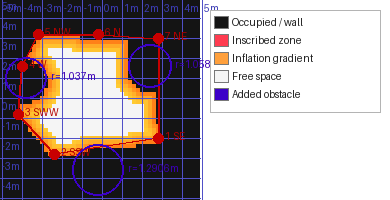
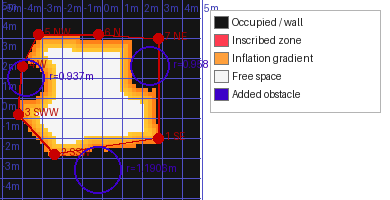
Lawnmower: relax arrival heading after 20 s without progress; craters 10 cm smaller
autonomous_trials --lawnmower-relax-after (launch lawnmower_relax_after, default 20 s, <= 0 off):
in a zigzag_heading trial, once the rover has made progress, 20 s without 5 cm more progress
toward the goal drop goal_heading_tolerance_deg / goal_approach_length for the rest of the trial
(restored after it); per trial in heading_relax.csv. 11/23 lawnmower_nn + V6-V8 (109 trials):
all 7 stalls were shuttles / loops at the goal at the wrong angle (bag_23: 5x to 0.7 m at
23-33 deg, then reverse-and-retry plans); this trigger fires on all 7 and on 10 reached trials
(mostly long detours).

update_costmap.py: CRATER_SHRINK 0.10, every crater circle 10 cm smaller (CraterNE 0.958,
CraterW 0.937, CraterS 1.19); the NE closure follows CraterNE's new west point (x >= 1.522).
27 cells freed; lanes unchanged, ends next to CraterNE / CraterW 0.2 m longer.

Bench (heading_relax.yaml): 20 s 6/6 reached, none relaxed; forced 4 s 6/6, relaxed and
restored in 2 trials.

diff --git a/src/nav2_stack/nav2_stack/autonomous_trials.py b/src/nav2_stack/nav2_stack/autonomous_trials.py
@@ -197,7 +197,7 @@ def wait_for_nav2_active():
 
 
 def wait_for_goal(node: PoseWatcher, goal_xy, label: str, route=None, trial_id=None,
-                  stop_on_distance=True) -> str:
+                  stop_on_distance=True, relax=None) -> str:
     """Spins until path_follower reports its authoritative trajectory
     outcome, the real pose is within XY_GOAL_TOLERANCE of goal_xy (a
     secondary/fallback "reached" signal -- see below), no progress has been
@@ -232,8 +232,14 @@ def wait_for_goal(node: PoseWatcher, goal_xy, label: str, route=None, trial_id=N
     uses), so keeping it can't reintroduce that bug, only catch a reached
     goal if /trial_goal_result were ever dropped. stop_on_distance=False turns
     it off (path_follower follow_mode "pose": the rover may pass the goal
-    mid-manoeuvre, before it faces the right way)."""
+    mid-manoeuvre, before it faces the right way).
+
+    relax = (after_s, fn): once the rover has made progress, the first time it then goes
+    after_s without MIN_IMPROVEMENT_M of further progress, fn(dist) is called once
+    (lawnmower zigzag_heading: drop the arrival-heading rule; the stall window keeps
+    running from the same last improvement)."""
     node.reset_trial_state(trial_id)
+    relaxed = False
     best_dist = math.inf
     first_dist = None
     last_improve_t = time.monotonic()
@@ -274,6 +280,12 @@ def wait_for_goal(node: PoseWatcher, goal_xy, label: str, route=None, trial_id=N
             if dist < best_dist - MIN_IMPROVEMENT_M:
                 best_dist = dist
                 last_improve_t = time.monotonic()
+            if (relax is not None and not relaxed and _made_progress()
+                    and time.monotonic() - last_improve_t > relax[0]):
+                relaxed = True
+                log(f"{label}: no progress for {relax[0]:g}s (dist={dist:.3f}m, best "
+                    f"{best_dist:.3f}m) -- relaxing")
+                relax[1](dist)
         if time.monotonic() - last_improve_t > STALL_WINDOW_S:
             made_progress = _made_progress()
             log(f"{label}: STALLED (best_dist={best_dist:.3f}m, no improvement for "
@@ -324,10 +336,10 @@ def next_trial_start_index(bag_dir: Path) -> int:
 
 
 def run_one_trial(bag_dir: Path, bag_name: str, pose_csv: Path, goal_xy, pose_node, label: str,
-                  follow_args=(), route=None, stop_on_distance=True) -> str:
+                  follow_args=(), route=None, stop_on_distance=True, relax=None) -> str:
     """Returns 'reached', 'stalled', 'no_movement', or 'safety_stop' (see wait_for_goal).
     follow_args: extra waypoint.launch.py arguments (follow_mode, advance_distance);
-    route: see wait_for_goal."""
+    route, relax: see wait_for_goal."""
     bag_path = bag_dir / bag_name
     trial_id = f"{label}@{int(time.time())}"  # unique per attempt (see PoseWatcher._goal_result_cb)
     bag_proc = start_process(["ros2", "bag", "record", *BAG_TOPICS,
@@ -341,7 +353,8 @@ def run_one_trial(bag_dir: Path, bag_name: str, pose_csv: Path, goal_xy, pose_no
     ])
 
     try:
-        outcome = wait_for_goal(pose_node, goal_xy, label, route, trial_id, stop_on_distance)
+        outcome = wait_for_goal(pose_node, goal_xy, label, route, trial_id, stop_on_distance,
+                                relax)
     finally:
         stop_process(wp_proc, "waypoint.launch.py")
         stop_process(bag_proc, "ros2 bag record")
@@ -923,6 +936,13 @@ def main():
     parser.add_argument("--lawnmower-heading-tolerance", default=20.0, type=float,
                         help="lawnmower-drive zigzag_heading: allowed arrival heading off E-W "
                              "(deg). Default: 20")
+    parser.add_argument("--lawnmower-relax-after", default=20.0, type=float,
+                        help="lawnmower-drive zigzag_heading: once the rover has made progress, "
+                             "this many s without 5 cm more progress toward the goal drop the "
+                             "arrival-heading rule (goal_heading_tolerance_deg, goal_approach_length) "
+                             "for the rest of the trial (11/23: stalls were shuttles at the goal "
+                             "at the wrong angle); per trial in heading_relax.csv. <= 0 = off. "
+                             "Default: 20")
     parser.add_argument("--lawnmower-cusp-tolerance", default=30.0, type=float,
                         help="lawnmower-drive zigzag / zigzag_heading: the planner only plans a "
                              "gear change (three-point turn) while the rover points within this "
@@ -1270,6 +1290,16 @@ def main():
             log(f"WARNING: could not set {planner}.{pname} ({e}) -- the planner needs the "
                 f"GridBasedCustom build with it; the zigzag runs without it")
 
+    # --lawnmower-relax-after: the arrival-heading params to drop in a stuck zigzag_heading trial
+    # (their run values, put back after that trial)
+    relax_params = {}
+    if (pattern is not None and pattern["drive"] == "zigzag_heading" and heading_tol_set is not None
+            and args.lawnmower_relax_after > 0):
+        relax_params = {p: planner_tols[p][0] for p in ("goal_heading_tolerance_deg", "goal_approach_length")
+                        if p in planner_tols}
+        log(f"arrival heading relaxed (any heading) after {args.lawnmower_relax_after:g}s without "
+            f"progress in a trial (heading_relax.csv)")
+
     live_mode = parsed["dynamics_mode"]   # dynamics_mode the controller runs right now
     if fs_cfg is not None and fs_cfg["current_weights_path"] is not None:
         log(f"train_from_scratch: deploying checkpoint {fs_cfg['current_weights_path']} "
@@ -1383,9 +1413,35 @@ def main():
                             if pattern["name"] == "spiral" else f"lawnmower {leg.label}")
                     log(f"{traj_name}: {what}, {leg.length:.1f} m, from ({leg.points[0][0]:.2f}, "
                         f"{leg.points[0][1]:.2f}) to ({goal_xy[0]:.2f}, {goal_xy[1]:.2f})")
-                    outcome = run_one_trial(bag_dir, bag_name, trial_csv, goal_xy, pose_node,
-                                            traj_name, pattern_follow_args(pattern["drive"], leg, args.lawnmower_cusp_tolerance >= 0),
-                                            None if pattern["drive"] in ZIGZAG_DRIVES else leg.points)
+                    relax, relax_state = None, {"t0": time.monotonic()}
+                    if relax_params:
+                        def _relax(dist, st=relax_state):
+                            st.update(t=time.monotonic() - st["t0"], dist=dist)
+                            for p in relax_params:
+                                try:
+                                    set_controller_param(pose_node, f"{heading_tol_set}.{p}",
+                                                         -1.0 if p == "goal_heading_tolerance_deg" else 0.0,
+                                                         server="planner_server")
+                                except Exception as e:
+                                    log(f"WARNING: could not relax {heading_tol_set}.{p} ({e})")
+                            log(f"{traj_name}: arrival heading relaxed (any heading) for the rest of "
+                                f"this trial")
+                        relax = (args.lawnmower_relax_after, _relax)
+                    try:
+                        outcome = run_one_trial(bag_dir, bag_name, trial_csv, goal_xy, pose_node,
+                                                traj_name, pattern_follow_args(pattern["drive"], leg, args.lawnmower_cusp_tolerance >= 0),
+                                                None if pattern["drive"] in ZIGZAG_DRIVES else leg.points,
+                                                relax=relax)
+                    finally:
+                        if "dist" in relax_state:
+                            for p, v in relax_params.items():
+                                try:
+                                    set_controller_param(pose_node, f"{heading_tol_set}.{p}", float(v),
+                                                         server="planner_server")
+                                except Exception as e:
+                                    log(f"WARNING: could not restore {heading_tol_set}.{p} ({e}) -- "
+                                        f"the next trials may run without the heading rule")
+                            log(f"{traj_name}: arrival heading rule restored")
                 else:
                     if not run_gp_explorer(gp_explorer_path, bag_dir, traj_name):
                         sys.exit(f"FATAL: gp_explorer_gpu.py failed {GP_EXPLORER_MAX_ATTEMPTS} "
@@ -1406,6 +1462,16 @@ def main():
                 outcome = "stalled"
 
             record_outcome(bag_dir, bag_name, outcome, goal_xy)
+            if relax_params:
+                path = bag_dir / "heading_relax.csv"
+                new = not path.exists()
+                with open(path, "a") as f:
+                    if new:
+                        f.write("bag,relaxed,t_relax_s,dist_at_relax_m,relax_after_s,outcome\n")
+                    rel = "dist" in relax_state
+                    f.write(f"{bag_name},{int(rel)},{relax_state['t'] if rel else float('nan'):.1f},"
+                            f"{relax_state['dist'] if rel else float('nan'):.3f},"
+                            f"{args.lawnmower_relax_after:g},{outcome}\n")
             run_gp_uncertainty(gp_uncertainty_path, bag_dir, bag_name)
             if fs_cfg is not None:
                 record_deployed_model(bag_dir, bag_name, fs_cfg)

diff --git a/scripts/update_costmap.py b/scripts/update_costmap.py
@@ -124,18 +124,27 @@ CRATER_W_RIM = [(-2.7501, 0.4731), (-2.6787, 0.8012), (-3.2678, -0.0534), (-2.96
 CRATER_NE_RIM = [(1.4336, 1.7144), (1.4407, 1.3779), (2.145, 2.4195), (1.8302, 2.3022),
                  (1.7852, 0.6461), (2.0654, 0.4717), (2.652, 0.4326), (2.9852, 0.4792)]
 
-DEFAULT_OBSTACLES = [
-    _fit_circle(CRATER_NE_RIM),   # CraterNE rim: (2.480, 1.444) r 1.058
-    _fit_circle(CRATER_W_RIM),    # CraterW rim: (-3.677, 0.897) r 1.037
-    (-0.0440, -3.6411, 6.5 * FT / 2 + CRATER_MARGIN),   # CraterS (the south crater, 11/17 centre), 6.5 ft across
-]
+# 11/23: every crater circle drawn this much smaller than measured, for more room to manoeuvre
+# (the rims' own fits: CraterNE r 1.058, CraterW r 1.037; CraterS r 1.2906).
+CRATER_SHRINK = 0.10
+
+
+def _shrunk(c):
+    return (c[0], c[1], round(c[2] - CRATER_SHRINK, 4))
+
+
+DEFAULT_OBSTACLES = [_shrunk(c) for c in (
+    _fit_circle(CRATER_NE_RIM),   # CraterNE rim: (2.480, 1.444) r 1.058 -> 0.958
+    _fit_circle(CRATER_W_RIM),    # CraterW rim: (-3.677, 0.897) r 1.037 -> 0.937
+    (-0.0440, -3.6411, 6.5 * FT / 2 + CRATER_MARGIN),   # CraterS (the south crater, 11/17 centre), 6.5 ft across: 1.2906 -> 1.1906
+)]
 # Quadrants closed as obstacles: (x0, y0) = everything with x >= x0 and y >= y0 is occupied.
 # 11/22: the NE pocket between CraterNE and the north wall, closed from the crater's westernmost
 # point (cx - r, cy) so the north wall meets one straight wall down to the crater at 90 deg
 # (kinematics run 11/22, bag_40: stalled 78 s at the pocket mouth, plans reversing into it).
 _cne = DEFAULT_OBSTACLES[0]
 DEFAULT_CLOSED_QUADRANTS = [
-    (round(_cne[0] - _cne[2], 4), _cne[1]),   # NE pocket: x >= 1.422, y >= 1.444
+    (round(_cne[0] - _cne[2], 4), _cne[1]),   # NE pocket: x >= 1.522, y >= 1.444 (shrunk CraterNE)
 ]
 # Every arena edge is moved this far towards the inside before rasterizing (10/28/26:
 # 7 in tighter than the surveyed edges). --inset overrides it, 0 = the surveyed polygon.

diff --git a/src/nav2_stack/launch/autonomous_trials.launch.py b/src/nav2_stack/launch/autonomous_trials.launch.py
@@ -99,6 +99,7 @@ def launch_setup(context):
             '--lawnmower-spacing', LaunchConfiguration('lawnmower_spacing'),
             '--lawnmower-drive', LaunchConfiguration('lawnmower_drive'),
             '--lawnmower-heading-tolerance', LaunchConfiguration('lawnmower_heading_tolerance'),
+            '--lawnmower-relax-after', LaunchConfiguration('lawnmower_relax_after'),
             '--lawnmower-cusp-tolerance', LaunchConfiguration('lawnmower_cusp_tolerance'),
             '--lawnmower-cusp-start-tolerance', LaunchConfiguration('lawnmower_cusp_start_tolerance'),
             '--lawnmower-approach-length', LaunchConfiguration('lawnmower_approach_length'),
@@ -204,6 +205,11 @@ def generate_launch_description():
         DeclareLaunchArgument('lawnmower_heading_tolerance', default_value='20.0',
                               description='lawnmower_drive zigzag_heading: allowed arrival '
                                           'heading off E-W (deg)'),
+        DeclareLaunchArgument('lawnmower_relax_after', default_value='20.0',
+                              description='lawnmower_drive zigzag_heading: after this many s '
+                                          'without progress toward the goal, the arrival-heading '
+                                          'rule is dropped for the rest of the trial (logged in '
+                                          'heading_relax.csv); <= 0 = off'),
         DeclareLaunchArgument('lawnmower_cusp_start_tolerance', default_value='60.0',
                               description='with lawnmower_cusp_tolerance: reversing the rover right '
                                           'where it is may be up to this many deg off E-W'),
